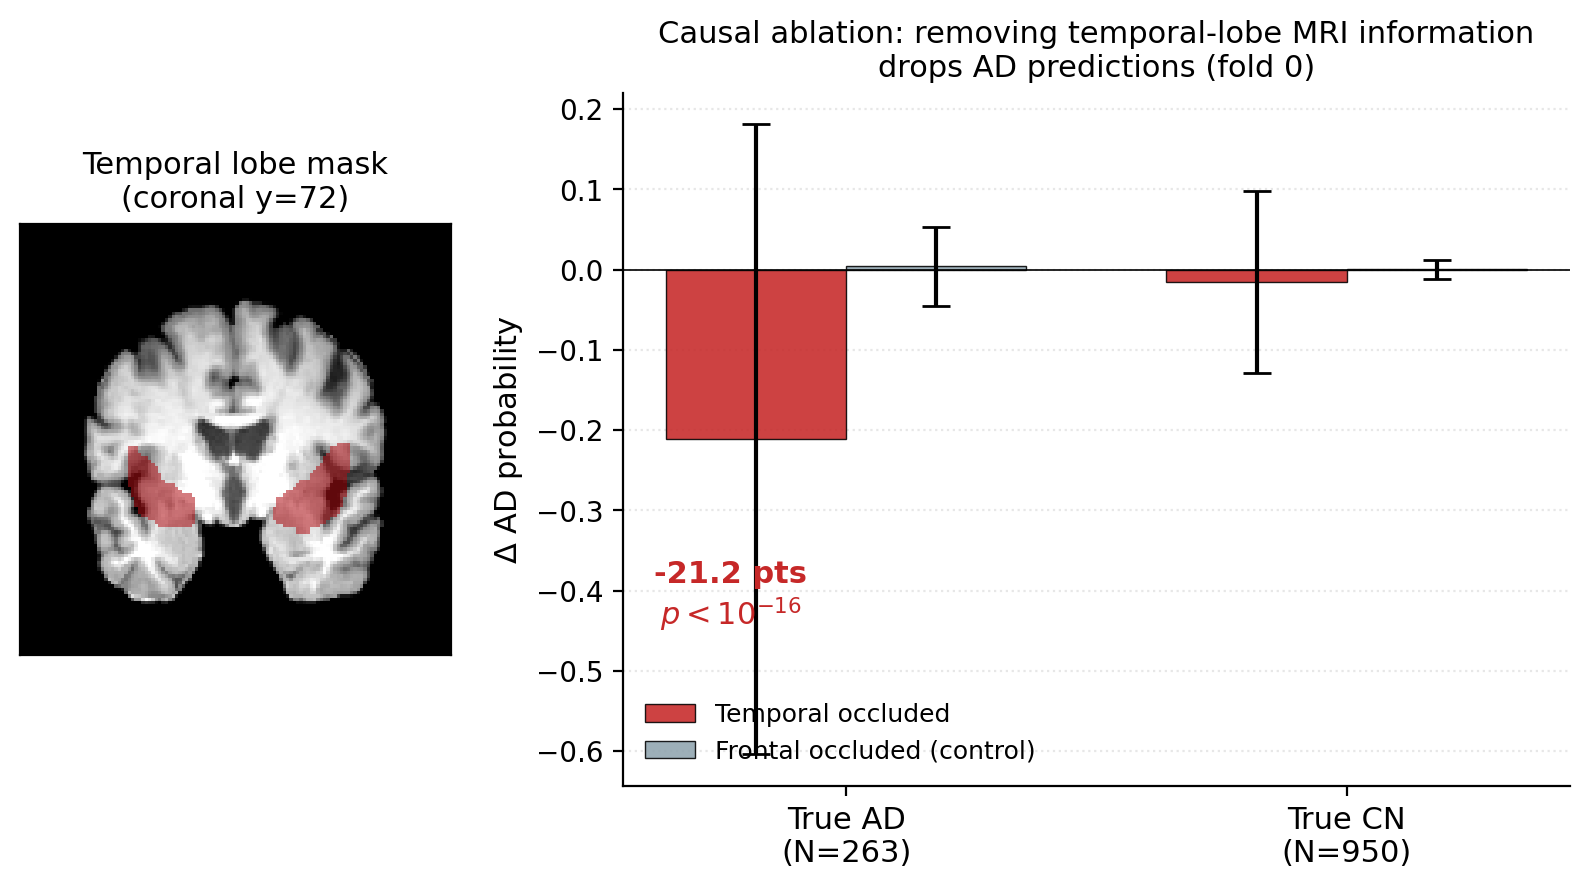
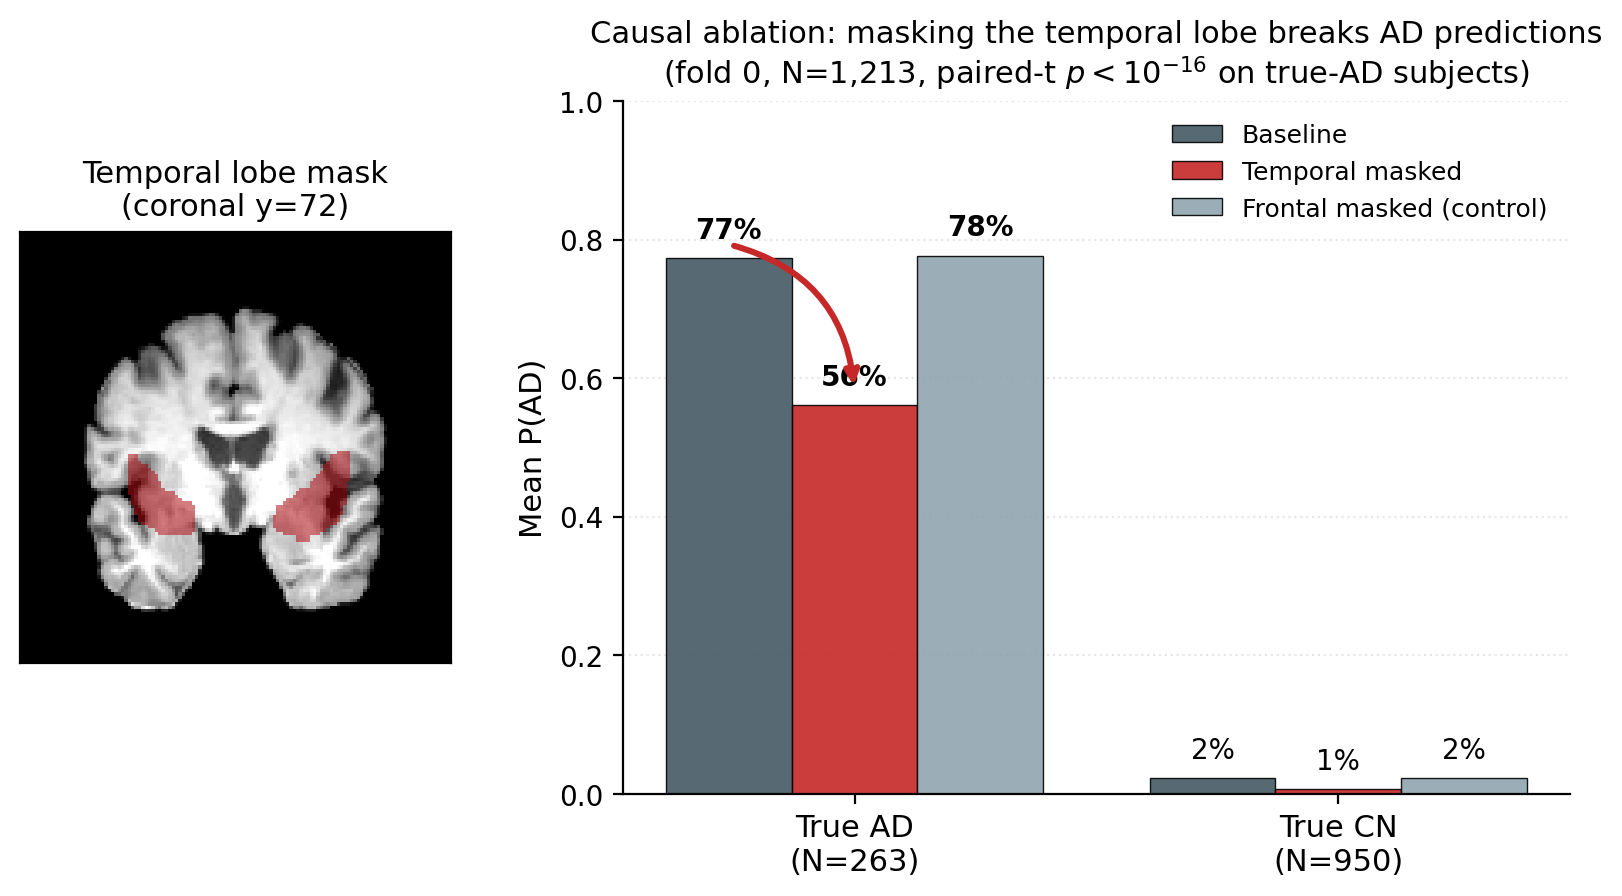
Paper IV.D.2 : reformule en probabilites absolues (plus de jargon "pts")
Au lieu de "21.2 percentage points drop" (peu intuitif), on raconte :
"P(AD) passe de 77% a 56% quand on masque le temporal, reste a 78%
quand on masque le frontal". Langage clinique direct.

Figure : bar chart avec 3 barres par classe (Baseline / Temporal / Frontal)
en probabilite absolue. Labels % sur chaque barre + fleche rouge entre 77%
et 56% pour signaler le drop. Lecteur voit instantanement : AD demarre
a 77%, s'effondre a 56% avec temporal, reste a 78% avec frontal. CN reste
a 1-2% dans tous les cas.

Abstract + caption alignes sur la meme formulation.

diff --git a/paper/paper.tex b/paper/paper.tex
@@ -61,7 +61,7 @@ said.mahmoudi@umons.ac.be}
 \maketitle
 
 \begin{abstract}
-Deep learning for Alzheimer's disease (AD) classification from MRI has shown promise, yet recent reviews reveal that fewer than 20\% of studies employ external validation, with data leakage (e.g., same subjects in train and test sets) inflating reported accuracies to 95-99\%. Studies with rigorous subject-level splitting achieve 66-90\%. We present an end-to-end multimodal deep learning framework that processes both 3D MRI scans and clinical tabular data. The framework combines a Vision Transformer (ViT) for imaging analysis with a Feature Tokenizer Transformer (FT-Transformer) for clinical features, fusing both modalities through bidirectional cross-attention. This multimodal fusion enables the model to leverage complementary information from structural brain imaging and patient clinical profiles. We validate on 6,065 subjects from three independent cohorts (ADNI, OASIS, NACC-SCAN) using strict subject-level 5-fold cross-validation. Our approach achieves \textbf{92.4\% accuracy} (AUC: 0.96) for distinguishing cognitively normal subjects from AD-trajectory patients (including MCI patients who later developed AD), and \textbf{93.3\%} on established AD cases. External validation across datasets reveals that single-cohort models suffer severe performance degradation (accuracy drops of 25-43 points), while our multi-cohort approach maintains robust generalization. SHAP analysis of the tabular branch shows predictions are dominated by the canonical neuropsychological battery (executive function, semantic memory, working memory), and a region-wise ablation of the imaging branch demonstrates that masking the temporal lobe drops AD probability by 21.2 points on true-AD cases versus $+0.4$ points for frontal-lobe masking (paired-t $p<10^{-16}$), establishing a causal dependence on temporal-lobe information.
+Deep learning for Alzheimer's disease (AD) classification from MRI has shown promise, yet recent reviews reveal that fewer than 20\% of studies employ external validation, with data leakage (e.g., same subjects in train and test sets) inflating reported accuracies to 95-99\%. Studies with rigorous subject-level splitting achieve 66-90\%. We present an end-to-end multimodal deep learning framework that processes both 3D MRI scans and clinical tabular data. The framework combines a Vision Transformer (ViT) for imaging analysis with a Feature Tokenizer Transformer (FT-Transformer) for clinical features, fusing both modalities through bidirectional cross-attention. This multimodal fusion enables the model to leverage complementary information from structural brain imaging and patient clinical profiles. We validate on 6,065 subjects from three independent cohorts (ADNI, OASIS, NACC-SCAN) using strict subject-level 5-fold cross-validation. Our approach achieves \textbf{92.4\% accuracy} (AUC: 0.96) for distinguishing cognitively normal subjects from AD-trajectory patients (including MCI patients who later developed AD), and \textbf{93.3\%} on established AD cases. External validation across datasets reveals that single-cohort models suffer severe performance degradation (accuracy drops of 25-43 points), while our multi-cohort approach maintains robust generalization. SHAP analysis of the tabular branch shows predictions are dominated by the canonical neuropsychological battery (executive function, semantic memory, working memory), and a region-wise ablation of the imaging branch demonstrates that masking the temporal lobe drops the model's mean AD probability from 77\% to 56\% on true-AD cases (while frontal-lobe masking leaves it unchanged at 78\%, paired-t $p<10^{-16}$), establishing a causal dependence on temporal-lobe information.
 \end{abstract}
 
 \begin{IEEEkeywords}
@@ -350,11 +350,11 @@ We apply SHAP~\cite{lundberg2017shap} (GradientExplainer, 100-sample training re
 
 \subsubsection{Spatial Brain Attention}
 
-Attention rollout~\cite{abnar2020quantifying} on the most confidently-classified subjects per fold shows AD attention concentrating around temporal-lobe regions (peak 3.6$\times$ higher than CN), but attention weights alone are not evidence of causal use~\cite{lundberg2017shap}. We therefore ran a \emph{region-wise ablation} on fold~0's test subjects ($N=1{,}213$): for each subject we replaced voxels inside the Harvard-Oxford temporal lobe with the subject's brain-mean intensity and measured the change in the model's AD probability, using the frontal lobe as a neutral control (Fig.~\ref{fig:vit_attn}). On true-AD subjects ($N=263$), masking the temporal lobe dropped AD probability by \textbf{21.2 percentage points} on average, while masking the frontal lobe changed it by only $+0.4$ points ($247/263$ subjects show a larger temporal drop, paired-t $p<10^{-16}$). The model's AD decisions therefore depend \emph{causally} on temporal-lobe information rather than merely attending to it---consistent with the earliest sites of AD-related atrophy.
+Attention rollout~\cite{abnar2020quantifying} on the most confidently-classified subjects per fold shows AD attention concentrating around temporal-lobe regions (peak 3.6$\times$ higher than CN), but attention weights alone are not evidence of causal use~\cite{lundberg2017shap}. We therefore ran a \emph{region-wise ablation} on fold~0's test subjects ($N=1{,}213$): for each subject we replaced voxels inside the Harvard-Oxford temporal lobe with the subject's brain-mean intensity and measured the change in the model's AD probability, using the frontal lobe as a neutral control (Fig.~\ref{fig:vit_attn}). On true-AD subjects ($N=263$), the model's mean AD probability \textbf{drops from 77\% to 56\%} when the temporal lobe is masked, while it remains at 78\% when the frontal lobe is masked ($247/263$ subjects show a larger temporal drop, paired-t $p<10^{-16}$). The model's AD decisions therefore depend \emph{causally} on temporal-lobe information rather than merely attending to it---consistent with the earliest sites of AD-related atrophy.
 
 \begin{figure}[htbp]
 \centerline{\includegraphics[width=\columnwidth]{figures/vit_occlusion_paper.png}}
-\caption{Region-wise causal ablation of the ViT branch (fold 0, $N{=}1{,}213$). Left: the Harvard-Oxford temporal-lobe mask (red) overlaid on a representative coronal slice. Right: mean $\pm$ std change in AD probability when voxels inside the temporal lobe (red) or frontal lobe (gray, control) are replaced by the subject's brain-mean intensity. Temporal-lobe masking drops AD probability by 21.2 points on true-AD subjects ($p<10^{-16}$) while frontal-lobe masking has negligible effect.}
+\caption{Region-wise causal ablation of the ViT branch (fold 0, $N{=}1{,}213$). Left: the Harvard-Oxford temporal-lobe mask (red) overlaid on a representative coronal slice. Right: mean model-predicted AD probability at baseline (dark) and after masking the temporal lobe (red) or the frontal lobe (gray, neutral control). On true-AD subjects, mean $P(\mathrm{AD})$ drops from 77\% to 56\% when the temporal lobe is masked but stays at 78\% when the frontal lobe is masked (paired-t $p<10^{-16}$); on true-CN subjects both interventions leave $P(\mathrm{AD})$ near 0 as expected.}
 \label{fig:vit_attn}
 \end{figure}
 

diff --git a/experiments/multimodal_fusion/interpretability/vit_occlusion_paper_figure.py b/experiments/multimodal_fusion/interpretability/vit_occlusion_paper_figure.py
@@ -1,15 +1,16 @@
 #!/usr/bin/env python3
 """
-Paper figure: minimal, focused on the causal ablation result.
+Paper figure: minimal, focused on absolute AD probabilities under occlusion.
 
 Layout (single row, two panels):
     Left (narrow)  : one coronal MRI slice with the HO temporal-lobe mask
-                     highlighted — a visual legend for "what we occluded".
-    Right (wide)   : bar chart of ΔP(AD) for temporal vs frontal occlusion,
-                     on true-AD and true-CN subjects (fold 0).
+                     highlighted (visual legend for "what we occluded").
+    Right (wide)   : bar chart of mean P(AD) baseline vs temporal-masked vs
+                     frontal-masked, on true-AD and true-CN subjects.
 
-No attention heatmaps — the attention/correlational result is mentioned in
-text only, so the figure can commit fully to the causal story.
+Reporting absolute probabilities (rather than signed Δ in percentage points)
+keeps the story readable: "mean AD probability drops from 77% to 56% when
+temporal lobe is masked, stays at 78% when frontal is masked".
 """
 
 from pathlib import Path
@@ -91,55 +92,66 @@ def plot(bg, temporal_mask, occl_df, out_path):
     fig = plt.figure(figsize=(10, 4.5))
     gs = gridspec.GridSpec(1, 2, width_ratios=[1, 2.2], wspace=0.25)
 
-    # --- Left: one coronal slice with temporal lobe highlighted ---
+    # --- Left: coronal slice with temporal mask in red overlay ---
     ax_brain = fig.add_subplot(gs[0, 0])
     coronal_idx = 72
     bg_s = bg[:, coronal_idx, :]
     mk_s = temporal_mask[:, coronal_idx, :]
     ax_brain.imshow(bg_s.T, cmap="gray", origin="lower")
-    # Temporal mask as red semi-transparent overlay
     mask_overlay = np.ma.masked_where(~mk_s, np.ones_like(mk_s, dtype=float))
     ax_brain.imshow(mask_overlay.T, cmap="Reds", alpha=0.55, origin="lower", vmin=0, vmax=1.2)
     ax_brain.set_title("Temporal lobe mask\n(coronal y=72)", fontsize=11)
     ax_brain.set_xticks([])
     ax_brain.set_yticks([])
 
-    # --- Right: bar chart of ΔP(AD) ---
+    # --- Right: absolute P(AD) bars (baseline, temporal-occl, frontal-occl) ---
     ax = fig.add_subplot(gs[0, 1])
     true_ad = occl_df[occl_df["label"] == 1]
     true_cn = occl_df[occl_df["label"] == 0]
 
     classes = ["True AD\n(N=263)", "True CN\n(N=950)"]
-    temp_m = [true_ad["delta_temp"].mean(), true_cn["delta_temp"].mean()]
-    temp_s = [true_ad["delta_temp"].std(ddof=1), true_cn["delta_temp"].std(ddof=1)]
-    front_m = [true_ad["delta_front"].mean(), true_cn["delta_front"].mean()]
-    front_s = [true_ad["delta_front"].std(ddof=1), true_cn["delta_front"].std(ddof=1)]
+    baseline = [true_ad["p_base"].mean(), true_cn["p_base"].mean()]
+    temp = [true_ad["p_temp_occl"].mean(), true_cn["p_temp_occl"].mean()]
+    front = [true_ad["p_front_occl"].mean(), true_cn["p_front_occl"].mean()]
 
     x = np.arange(len(classes))
-    w = 0.36
-    ax.bar(x - w/2, temp_m, w, yerr=temp_s, color="#c62828", alpha=0.88,
-           label="Temporal occluded", capsize=5, edgecolor="black", linewidth=0.5)
-    ax.bar(x + w/2, front_m, w, yerr=front_s, color="#90a4ae", alpha=0.88,
-           label="Frontal occluded (control)", capsize=5, edgecolor="black", linewidth=0.5)
-    ax.axhline(0, color="black", linewidth=0.6)
+    w = 0.26
+    b1 = ax.bar(x - w, baseline, w, color="#455a64", alpha=0.9,
+                label="Baseline", edgecolor="black", linewidth=0.5)
+    b2 = ax.bar(x,     temp,     w, color="#c62828", alpha=0.9,
+                label="Temporal masked", edgecolor="black", linewidth=0.5)
+    b3 = ax.bar(x + w, front,    w, color="#90a4ae", alpha=0.9,
+                label="Frontal masked (control)", edgecolor="black", linewidth=0.5)
+
+    # Annotate bar heights as %
+    for bars in (b1, b2, b3):
+        for b in bars:
+            h = b.get_height()
+            ax.text(b.get_x() + b.get_width() / 2, h + 0.02,
+                    f"{h*100:.0f}%", ha="center", va="bottom",
+                    fontsize=10, fontweight="bold" if h > 0.3 else "normal")
+
     ax.set_xticks(x)
     ax.set_xticklabels(classes, fontsize=11)
-    ax.set_ylabel(r"$\Delta$ AD probability", fontsize=11)
-    ax.set_title("Causal ablation: removing temporal-lobe MRI information\ndrops AD predictions (fold 0)",
-                 fontsize=11)
-    ax.legend(loc="lower left", fontsize=9, frameon=False)
+    ax.set_ylabel("Mean P(AD)", fontsize=11)
+    ax.set_ylim(0, 1.0)
+    ax.set_title(
+        "Causal ablation: masking the temporal lobe breaks AD predictions\n"
+        "(fold 0, N=1,213, paired-t $p<10^{-16}$ on true-AD subjects)",
+        fontsize=11,
+    )
+    ax.legend(loc="upper right", fontsize=9, frameon=False)
     ax.grid(axis="y", alpha=0.3, linestyle=":")
     ax.set_axisbelow(True)
     ax.spines["top"].set_visible(False)
     ax.spines["right"].set_visible(False)
 
-    # Single annotation: headline effect size + p-value on the True-AD temporal bar
+    # Curved arrow highlighting the AD-only drop from baseline to temporal-masked
     ax.annotate(
-        f"{temp_m[0]*100:+.1f} pts\n$p<10^{{-16}}$",
-        xy=(0 - w/2, temp_m[0]),
-        xytext=(0 - w/2 - 0.05, temp_m[0] - 0.15),
-        ha="center", va="top",
-        fontsize=11, color="#c62828", fontweight="bold",
+        "",
+        xy=(0, temp[0] + 0.02), xytext=(0 - w, baseline[0] + 0.02),
+        arrowprops=dict(arrowstyle="->", color="#c62828", lw=2.2,
+                        connectionstyle="arc3,rad=-0.35"),
     )
 
     plt.savefig(out_path, dpi=200, bbox_inches="tight")
